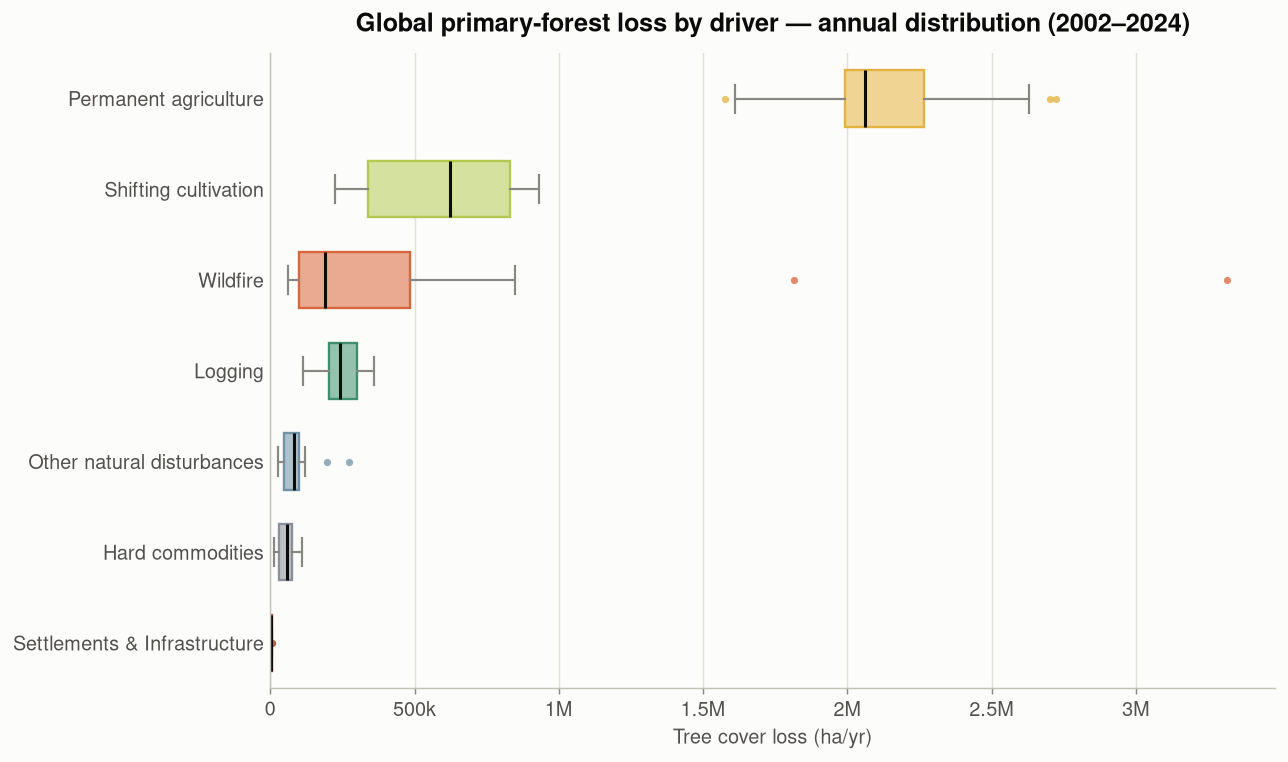
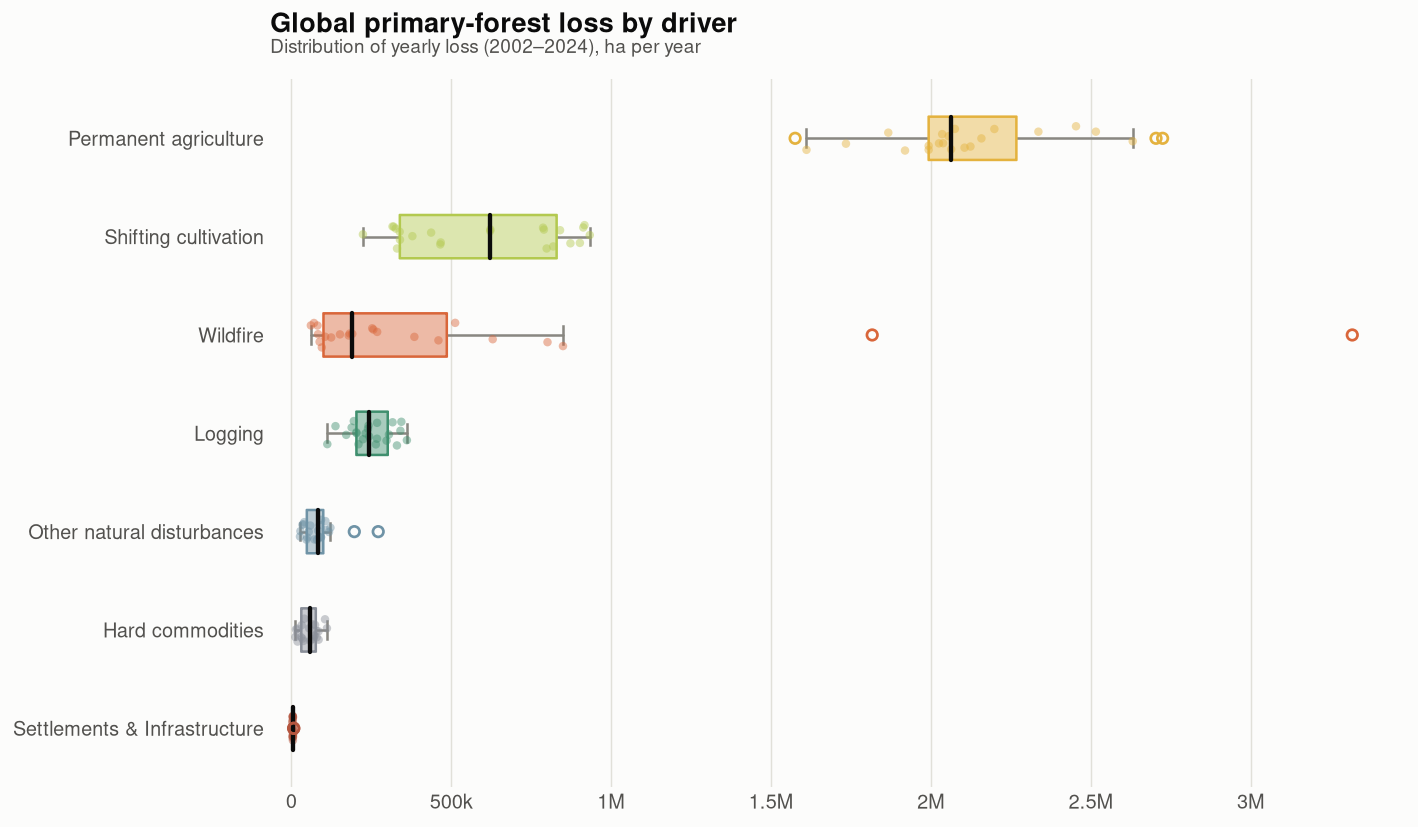
Modernize the driver box plot
Replace matplotlib's default boxplot with a custom, modern distribution
chart: soft rounded IQR boxes, a clear median, thin capped whiskers, and
each year's value overlaid as a faint jittered dot (outliers ringed).
Spineless layout, light x-grid, left-aligned title with a muted subtitle.

diff --git a/src/forest_viz/plots.py b/src/forest_viz/plots.py
@@ -17,6 +17,8 @@ Design notes
 from __future__ import annotations
 
 import matplotlib.pyplot as plt
+import numpy as np
+from matplotlib.patches import FancyBboxPatch
 from matplotlib.ticker import FuncFormatter
 
 from forest_viz import data as _data
@@ -242,45 +244,75 @@ def _tint(hex_color, t=0.5):
 
 
 def plot_driver_box(drivers, country=None, year_range=None, ax=None, dark=False):
-    """Box-and-whisker of each driver's annual loss distribution.
+    """Modern distribution chart: a soft box + jittered points per driver.
 
-    One horizontal box per driver summarizes the spread of its yearly
-    tree-cover loss (median, quartiles, whiskers, outliers) across years.
+    One horizontal row per driver shows the spread of its yearly tree-cover
+    loss — a rounded IQR box, a clear median, thin whiskers, and every year's
+    value as a faint dot (outliers ringed).
     """
     chrome = palette.chrome(dark=dark)
     theme = palette.driver_theme(dark=dark)
-    ax = _new_ax(ax, (10, 6))
+    ax = _new_ax(ax, (11, 6.5))
 
     wide = _data.drivers_by_year(drivers, country=country)
     if year_range is not None:
         lo, hi = year_range
         wide = wide.loc[(wide.index >= lo) & (wide.index <= hi)]
     order = [d for d in palette.DRIVER_ORDER if d in wide.columns]
-    series = [wide[d].to_numpy() for d in order]
-    pos = list(range(len(order), 0, -1))  # first driver at the top
+    n = len(order)
 
-    bp = ax.boxplot(
-        series, vert=False, positions=pos, widths=0.62, patch_artist=True,
-        medianprops=dict(color=chrome["text"], linewidth=1.7),
-        whiskerprops=dict(color=chrome["muted"], linewidth=1.2),
-        capprops=dict(color=chrome["muted"], linewidth=1.2),
-        flierprops=dict(marker="o", markersize=4, markeredgecolor="none", alpha=0.75),
-    )
-    for patch, flier, d in zip(bp["boxes"], bp["fliers"], order):
-        patch.set_facecolor(_tint(theme[d], 0.45))
-        patch.set_edgecolor(theme[d])
-        patch.set_linewidth(1.3)
-        flier.set_markerfacecolor(theme[d])
+    for i, d in enumerate(order):
+        y = n - i  # first driver on top
+        col = theme[d]
+        vals = np.sort(wide[d].to_numpy().astype(float))
+        q1, med, q3 = np.percentile(vals, [25, 50, 75])
+        iqr = q3 - q1
+        inl = vals[(vals >= q1 - 1.5 * iqr) & (vals <= q3 + 1.5 * iqr)]
+        wlo, whi = (inl.min(), inl.max()) if len(inl) else (vals.min(), vals.max())
+        out = vals[(vals < wlo) | (vals > whi)]
 
-    ax.set_yticks(pos)
-    ax.set_yticklabels(order)
-    ax.set_xlim(left=0)
-    ax.set_xlabel("Tree cover loss (ha/yr)")
+        # whisker
+        ax.plot([wlo, whi], [y, y], color=chrome["muted"], lw=1.4, zorder=2,
+                solid_capstyle="round")
+        for xw in (wlo, whi):
+            ax.plot([xw, xw], [y - 0.09, y + 0.09], color=chrome["muted"], lw=1.4, zorder=2)
+        # rounded IQR box (rounding in axes-fraction so it isn't stretched by x)
+        box = FancyBboxPatch(
+            (q1, y - 0.22), max(q3 - q1, 1e-9), 0.44,
+            boxstyle="round,pad=0,rounding_size=6", mutation_aspect=1e-6,
+            facecolor=_tint(col, 0.55), edgecolor=col, linewidth=1.4, zorder=3,
+            transform=ax.transData, mutation_scale=1)
+        ax.add_patch(box)
+        # median
+        ax.plot([med, med], [y - 0.22, y + 0.22], color=chrome["text"], lw=2.4,
+                zorder=5, solid_capstyle="round")
+        # jittered raw points
+        rng = np.random.RandomState(len(d))
+        jit = rng.uniform(-0.13, 0.13, size=len(vals))
+        inpts = vals[(vals >= wlo) & (vals <= whi)]
+        ax.scatter(inpts, np.full(len(inpts), y) + jit[: len(inpts)], s=22, color=col,
+                   alpha=0.45, edgecolor="none", zorder=4)
+        if len(out):
+            ax.scatter(out, np.full(len(out), y), s=34, facecolor="none", edgecolor=col,
+                       linewidth=1.5, zorder=6)
+
+    ax.set_yticks(range(1, n + 1))
+    ax.set_yticklabels(order[::-1], fontsize=11)
+    ax.set_ylim(0.4, n + 0.6)
+    ax.set_xlim(left=-max(wide.values.max() * 0.02, 1))
     ax.xaxis.set_major_formatter(FuncFormatter(_fmt_ha))
-    ax.grid(axis="x")
+    ax.grid(axis="x", color=chrome["grid"], linewidth=0.8)
     ax.grid(axis="y", visible=False)
-    ax.tick_params(axis="y", length=0)
-    rng = f" ({year_range[0]}–{year_range[1]})" if year_range else ""
+    ax.tick_params(axis="both", length=0)
+    for spine in ax.spines.values():
+        spine.set_visible(False)
+    ax.set_axisbelow(True)
+
+    rng_txt = f"{year_range[0]}–{year_range[1]}" if year_range else "annual"
     scope = country if country else "Global"
-    ax.set_title(f"{scope} primary-forest loss by driver — annual distribution{rng}")
+    ax.set_title(f"{scope} primary-forest loss by driver", loc="left", fontsize=15,
+                 fontweight="bold", pad=26)
+    ax.text(0, 1.03, f"Distribution of yearly loss ({rng_txt}), ha per year",
+            transform=ax.transAxes, ha="left", va="bottom", fontsize=10.5,
+            color=chrome["text_secondary"])
     return ax
